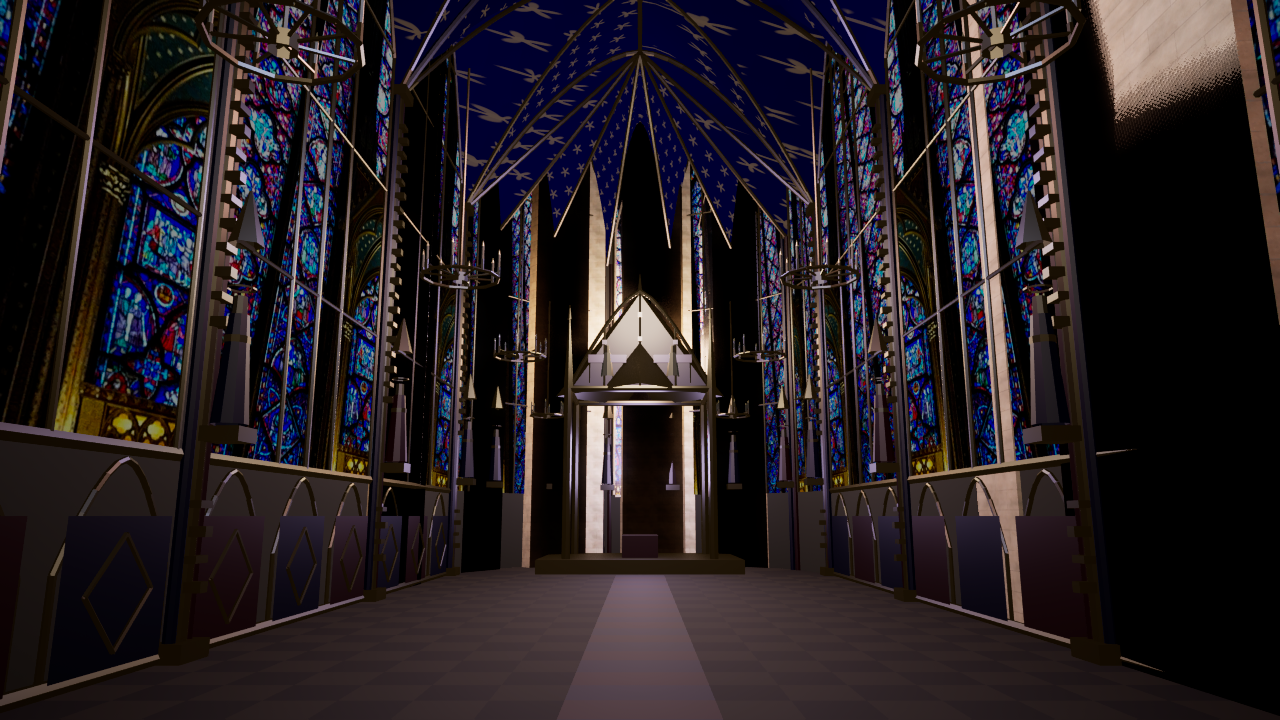
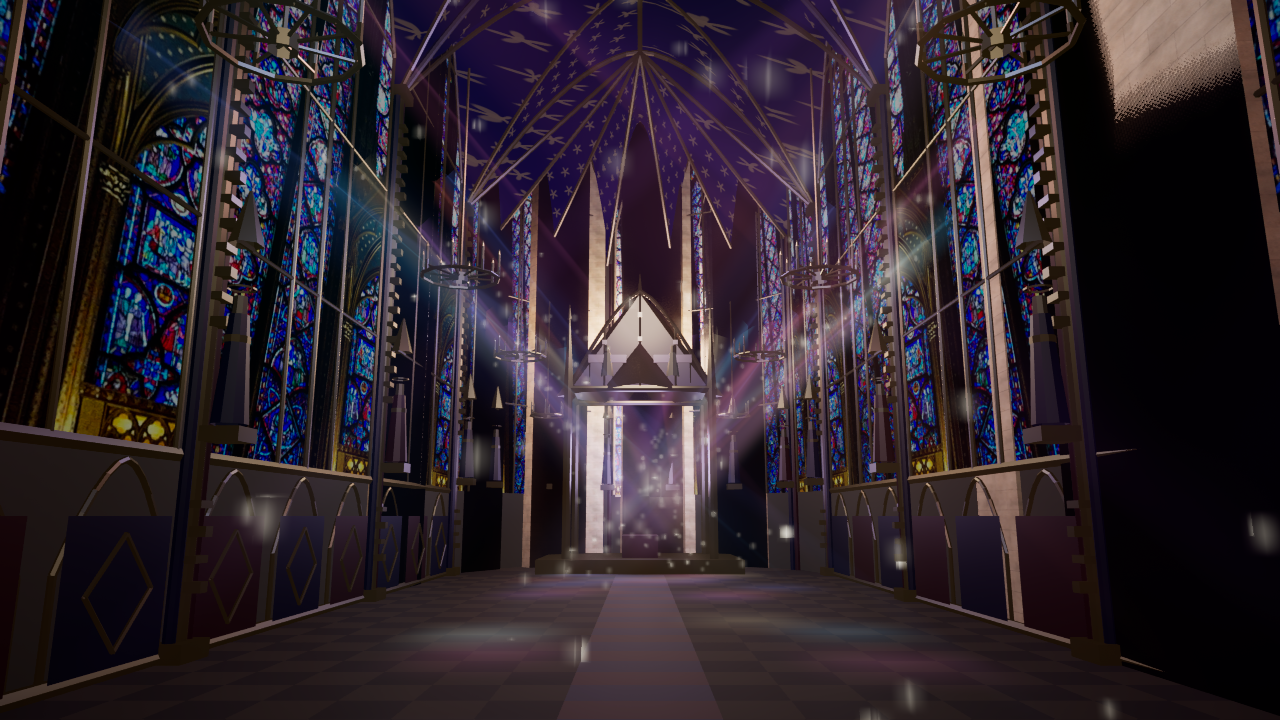
Add chapel entry (Enter), restore environment on exit, coloured light shafts and glitter

diff --git a/unreal/AIWorld/Source/AIWorld/ParisChapelle.cpp b/unreal/AIWorld/Source/AIWorld/ParisChapelle.cpp
@@ -49,7 +49,7 @@ double VaultA(double Y){return InSpring+(InCrown-InSpring)*(1-FMath::Pow(FMath::
 double VaultB(double X,double Cx){return InSpring+(InCrown-InSpring)*(1-FMath::Pow(FMath::Min(FMath::Abs(X-Cx)/(InBayPitch*.5),1.),1.7));}
 double Formeret(double U){return InSpring+(InCrown-InSpring)*(1-FMath::Pow(FMath::Abs(2*U-1),1.7));}
 FVector2D RoseUV(double A){return FVector2D(.53+.12*(.5+.5*FMath::Cos(A)),.29+.20*(.5-.5*FMath::Sin(A)));}
-void BuildInterior(ChapelMesh& S,ChapelMesh& G,ChapelMesh& Vt,int32& Windows){
+void BuildInterior(ChapelMesh& S,ChapelMesh& G,ChapelMesh& Vt,ChapelMesh& Bm,int32& Windows){
     const FLinearColor Stone(.40f,.33f,.22f,.85f),Gold(.60f,.38f,.07f,.38f),Red(.30f,.025f,.025f,.5f),Blue(.015f,.03f,.22f,.5f),Dark(.04f,.025f,.02f,.7f);
     auto ApsePier=[](int32 B){const double A=PI*.5+PI*B/7.;return FVector(InApseX+InApseR*FMath::Cos(A),InApseR*FMath::Sin(A),0);};
     // Floor: alternating tiles, polished stone.
@@ -202,6 +202,44 @@ void BuildInterior(ChapelMesh& S,ChapelMesh& G,ChapelMesh& Vt,int32& Windows){
     S.Col=Gold;for(double Y:{-170.,0.,170.})S.Cone(-1572,Y,InFloor+620,InFloor+700,2,2,4);
     // Kneeling angels beneath the canopy.
     for(double Y:{-110.,110.}){S.Col=Wax;S.Cone(-1560,Y,InFloor+640,InFloor+720,22,12,8);S.Col=Skin;S.Cone(-1560,Y,InFloor+720,InFloor+745,9,8,8);S.Col=Gold;S.Box(FVector(-1560,Y+(Y>0?-30:30),InFloor+700),FVector(6,34,14));S.Box(FVector(-1560,Y+(Y>0?30:-30),InFloor+700),FVector(6,34,14));}
+    // ---- Coloured light shafts pouring through the glass, floor pools and drifting glitter motes (additive, unlit).
+    FRandomStream Rnd(11);
+    const FLinearColor Pal[6]={FLinearColor(.25f,.38f,1.f),FLinearColor(1.f,.28f,.22f),FLinearColor(.70f,.30f,1.f),FLinearColor(1.f,.84f,.52f),FLinearColor(.20f,.72f,1.f),FLinearColor(1.f,.32f,.66f)};
+    TArray<TPair<FVector,FVector>> Shafts;
+    auto Ribbon=[&](FVector A,FVector B,double W0,double W1,FLinearColor Col,float Gain){
+        const FVector D=(B-A).GetSafeNormal();const FVector S1=FVector::CrossProduct(D,FVector::UpVector).GetSafeNormal(),S2=FVector::CrossProduct(D,S1).GetSafeNormal();
+        Bm.Col=FLinearColor(Col.R,Col.G,Col.B,Gain/40.f);
+        for(const FVector& Sd:{S1,S2})Bm.Face({A-Sd*(W0*.5),A+Sd*(W0*.5),B+Sd*(W1*.5),B-Sd*(W1*.5)},FVector(0,0,1),{FVector2D(0,0),FVector2D(0,1),FVector2D(1,1),FVector2D(1,0)});
+        Shafts.Add(TPair<FVector,FVector>(A,B));
+        Bm.Col=FLinearColor(Col.R,Col.G,Col.B,Gain*.9f/40.f);
+        Bm.Face({FVector(B.X-190,B.Y-150,InFloor+2),FVector(B.X+190,B.Y-150,InFloor+2),FVector(B.X+190,B.Y+150,InFloor+2),FVector(B.X-190,B.Y+150,InFloor+2)},FVector(0,0,1),{FVector2D(-1,0),FVector2D(1,0),FVector2D(1,1),FVector2D(-1,1)});
+    };
+    int32 Ci=0;
+    for(int32 Sign:{-1,1})for(int32 Bay=0;Bay<4;Bay++){
+        const double Cx=InPiers[Bay]+InBayPitch*.5;
+        for(double Off:{-140.,0.,140.}){
+            const FVector A(Cx+Off,Sign*(InWallY-8),1450+Rnd.FRandRange(-250.f,350.f));
+            const FVector B(Cx+Off+230+Rnd.FRandRange(-120.f,120.f),Sign*(InWallY-720-Rnd.FRandRange(0.f,260.f)),InFloor+2);
+            Ribbon(A,B,90,230,Pal[(Ci++)%6],30.f);
+        }
+    }
+    for(int32 B=0;B<7;B++){
+        const FVector P0=ApsePier(B),P1=ApsePier(B+1),Mid=(P0+P1)*.5;const FVector Radial=FVector(Mid.X-InApseX,Mid.Y,0).GetSafeNormal(),Tangent(-Radial.Y,Radial.X,0);
+        for(double Off:{-60.,60.}){
+            const FVector A=FVector(Mid.X,Mid.Y,1400)-Radial*8+Tangent*Off;
+            const FVector E=FVector(Mid.X,Mid.Y,InFloor+2)-Radial*(650+Rnd.FRandRange(0.f,260.f))+Tangent*(Off*2.5);
+            Ribbon(A,E,90,220,Pal[(Ci++)%6],30.f);
+        }
+    }
+    for(double Y:{-220.,-70.,80.,230.})Ribbon(FVector(InPiers[4]-8,Y*.6,1650),FVector(InPiers[4]-1000,Y*1.6,InFloor+2),130,300,Pal[(Ci++)%6],24.f);
+    // Glitter motes: tiny crossed quads scattered along the shafts that twinkle in the material.
+    Bm.Col=FLinearColor(1.f,.93f,.78f,1.f);
+    for(int32 K=0;K<420&&Shafts.Num();K++){
+        const auto& Sh=Shafts[Rnd.RandRange(0,Shafts.Num()-1)];const double T=Rnd.FRand();
+        const FVector P=FMath::Lerp(Sh.Key,Sh.Value,T)+FVector(Rnd.FRandRange(-70.f,70.f),Rnd.FRandRange(-70.f,70.f),Rnd.FRandRange(-50.f,50.f));const double Sz=7+Rnd.FRand()*8;
+        Bm.Face({P+FVector(-Sz,0,-Sz),P+FVector(Sz,0,-Sz),P+FVector(Sz,0,Sz),P+FVector(-Sz,0,Sz)},FVector(0,-1,0),{FVector2D(-1,0),FVector2D(1,0),FVector2D(1,1),FVector2D(-1,1)});
+        Bm.Face({P+FVector(0,-Sz,-Sz),P+FVector(0,Sz,-Sz),P+FVector(0,Sz,Sz),P+FVector(0,-Sz,Sz)},FVector(1,0,0),{FVector2D(-1,0),FVector2D(1,0),FVector2D(1,1),FVector2D(-1,1)});
+    }
 }
 }
 AParisChapelleDetail::AParisChapelleDetail(){
@@ -213,6 +251,7 @@ AParisChapelleDetail::AParisChapelleDetail(){
     PrimaryActorTick.bCanEverTick=true;PrimaryActorTick.TickInterval=.2f;
     InnerSolid=CreateDefaultSubobject<UProceduralMeshComponent>(TEXT("ChapelleInnerSolid"));InnerSolid->SetupAttachment(RootComponent);InnerSolid->SetVisibility(false);
     InnerGlass=CreateDefaultSubobject<UProceduralMeshComponent>(TEXT("ChapelleInnerGlass"));InnerGlass->SetupAttachment(RootComponent);InnerGlass->SetCastShadow(false);InnerGlass->SetVisibility(false);
+    InnerBeams=CreateDefaultSubobject<UProceduralMeshComponent>(TEXT("ChapelleInnerBeams"));InnerBeams->SetupAttachment(RootComponent);InnerBeams->SetCastShadow(false);InnerBeams->SetVisibility(false);
     InnerVault=CreateDefaultSubobject<UProceduralMeshComponent>(TEXT("ChapelleInnerVault"));InnerVault->SetupAttachment(RootComponent);InnerVault->SetVisibility(false);
     auto MakeCamera=[this](const TCHAR* Name,FVector From,FVector To,float Fov){auto C=CreateDefaultSubobject<UCameraComponent>(Name);C->SetupAttachment(RootComponent);C->SetRelativeLocation(From);C->SetRelativeRotation((To-From).Rotation());C->FieldOfView=Fov;C->SetAutoActivate(false);return C;};
     WestCamera=MakeCamera(TEXT("ChapelleWestCamera"),FVector(-1250,0,700),FVector(1580,0,1350),76);
@@ -226,22 +265,31 @@ AParisChapelleDetail::AParisChapelleDetail(){
 void AParisChapelleDetail::Tick(float DeltaSeconds){
     Super::Tick(DeltaSeconds);if(!bInteriorBuilt)return;
     // Interior meshes and lights are drawn only while the viewer is inside, so the exterior view pays nothing.
-    auto PC=GetWorld()?GetWorld()->GetFirstPlayerController():nullptr;const bool Inside=PC&&PC->GetViewTarget()==this&&ViewIndex>0;
-    InnerSolid->SetVisibility(Inside);InnerGlass->SetVisibility(Inside);InnerVault->SetVisibility(Inside);for(auto L:InnerLights)L->SetVisibility(Inside);
-    // The scene uses fixed daylight camera exposure (ISO100, 1/125s); the nave is
-    // a candle-and-glass interior, so switch to a dark-adapted exposure while inside.
+    // "Inside" is decided by where the camera actually is, so flying or walking in works as well as the fixed views.
+    auto PC=GetWorld()?GetWorld()->GetFirstPlayerController():nullptr;bool Inside=false;
+    if(PC&&PC->PlayerCameraManager){const FVector L=GetActorTransform().InverseTransformPosition(PC->PlayerCameraManager->GetCameraLocation());Inside=L.X>-2200&&L.X<1700&&FMath::Abs(L.Y)<660&&L.Z>InFloor-40&&L.Z<InCrown;}
+    SetActorTickInterval(Inside?0.f:.2f);
+    InnerSolid->SetVisibility(Inside);InnerGlass->SetVisibility(Inside);InnerVault->SetVisibility(Inside);InnerBeams->SetVisibility(Inside);for(auto L:InnerLights)L->SetVisibility(Inside);
+    // Keep a free-flying camera within the nave (there is no collision on the procedural shell).
+    if(Inside&&PC){if(auto Cam=Cast<AParisTwinCamera>(PC->GetPawn()))if(Cam->bEye&&PC->GetViewTarget()==Cam){
+        FVector L=GetActorTransform().InverseTransformPosition(Cam->Target);L.X=FMath::Clamp(L.X,-2000.,1560.);L.Y=FMath::Clamp(L.Y,-540.,540.);L.Z=FMath::Clamp(L.Z,InFloor+60.,InCrown-200.);Cam->Target=GetActorTransform().TransformPosition(L);}}
     if(Inside!=bWasInside){
         bWasInside=Inside;
-        for(TActorIterator<APostProcessVolume> It(GetWorld());It;++It)if(It->ActorHasTag(TEXT("ParisPhotoEnvironment"))){
-            auto& P=It->Settings;
-            if(Inside){if(!bSavedExposure){SavedISO=P.CameraISO;SavedShutter=P.CameraShutterSpeed;bSavedExposure=true;}P.bOverride_CameraISO=true;P.CameraISO=400.f;P.bOverride_CameraShutterSpeed=true;P.CameraShutterSpeed=30.f;}
-            else if(bSavedExposure){P.CameraISO=SavedISO;P.CameraShutterSpeed=SavedShutter;bSavedExposure=false;}
-        }
-        // Outdoor sun, sky and haze would leak through the shell mesh and wash out the nave.
-        for(TActorIterator<ASkyLight> It(GetWorld());It;++It)if(It->ActorHasTag(TEXT("ParisPhotoEnvironment")))It->GetLightComponent()->SetVisibility(!Inside);
-        for(TActorIterator<ADirectionalLight> It(GetWorld());It;++It)if(It->ActorHasTag(TEXT("ParisPhotoEnvironment")))It->GetLightComponent()->SetVisibility(!Inside);
-        for(TActorIterator<AExponentialHeightFog> It(GetWorld());It;++It)if(It->ActorHasTag(TEXT("ParisPhotoEnvironment")))It->GetComponent()->SetVisibility(!Inside);
+        if(Inside){
+            // The scene uses fixed daylight camera exposure; the nave is a candle-and-glass interior, so use a
+            // dark-adapted exposure and silence the outdoor sun, sky and haze (they would leak through the shell mesh).
+            for(TActorIterator<APostProcessVolume> It(GetWorld());It;++It)if(It->ActorHasTag(TEXT("ParisPhotoEnvironment"))){auto& P=It->Settings;P.bOverride_CameraISO=true;P.CameraISO=400.f;P.bOverride_CameraShutterSpeed=true;P.CameraShutterSpeed=30.f;P.bOverride_AutoExposureBias=true;P.AutoExposureBias=0.f;P.bOverride_BloomIntensity=true;P.BloomIntensity=1.6f;P.bOverride_BloomThreshold=true;P.BloomThreshold=.7f;}
+            for(TActorIterator<ASkyLight> It(GetWorld());It;++It)if(It->ActorHasTag(TEXT("ParisPhotoEnvironment")))It->GetLightComponent()->SetIntensity(0.f);
+            for(TActorIterator<ADirectionalLight> It(GetWorld());It;++It)if(It->ActorHasTag(TEXT("ParisPhotoEnvironment")))It->GetLightComponent()->SetIntensity(0.f);
+            for(TActorIterator<AExponentialHeightFog> It(GetWorld());It;++It)if(It->ActorHasTag(TEXT("ParisPhotoEnvironment")))It->GetComponent()->SetFogDensity(0.f);
+        }else if(Scene)Scene->ApplyEnvironmentPreset(); // rebuilds sun, sky, fog and exposure for the current time of day
     }
+}
+void AParisChapelleDetail::ToggleInterior(AParisTwinController* PC){
+    if(!PC||!bInteriorBuilt)return;
+    if(bWasInside){ActivateView(PC,0);return;}
+    PC->ReturnToFree();auto Cam=Cast<AParisTwinCamera>(PC->GetPawn());if(!Cam)return;
+    Cam->bEye=true;Cam->Target=GetActorTransform().TransformPosition(FVector(1350,0,InFloor+170));Cam->Yaw=GetActorRotation().Yaw+180.;Cam->Pitch=4;PC->SetViewTarget(Cam);
 }
 bool AParisChapelleDetail::Initialize(AParisTwinScene* InScene){
     Scene=InScene;if(!Scene)return false;auto Feature=Scene->SourceFeatureByID(TEXT("osm/relation/3344870"));if(!Feature)return false;
@@ -315,7 +363,8 @@ bool AParisChapelleDetail::Initialize(AParisTwinScene* InScene){
         auto InMat=LoadObject<UMaterialInterface>(nullptr,TEXT("/Game/ParisPhotoreal/SainteChapelle/M_SainteChapelleInterior.M_SainteChapelleInterior"));
         auto InGlass=LoadObject<UMaterialInterface>(nullptr,TEXT("/Game/ParisPhotoreal/SainteChapelle/M_SainteChapelleInnerGlass.M_SainteChapelleInnerGlass"));
         auto InVault=LoadObject<UMaterialInterface>(nullptr,TEXT("/Game/ParisPhotoreal/SainteChapelle/M_SainteChapelleVault.M_SainteChapelleVault"));
-        if(InMat&&InGlass&&InVault){ChapelMesh IS,IG,IV;int32 InnerWindows=0;BuildInterior(IS,IG,IV,InnerWindows);IS.Apply(InnerSolid,InMat);IG.Apply(InnerGlass,InGlass);IV.Apply(InnerVault,InVault);bInteriorBuilt=true;UE_LOG(LogTemp,Display,TEXT("PARIS_CHAPELLE_INTERIOR_READY windows=%d solid_tris=%d vault_tris=%d"),InnerWindows,IS.I.Num()/3,IV.I.Num()/3);}
+        UMaterialInterface* InBeam=LoadObject<UMaterialInterface>(nullptr,TEXT("/Game/ParisPhotoreal/SainteChapelle/M_SainteChapelleBeam.M_SainteChapelleBeam"));
+        if(InMat&&InGlass&&InVault){ChapelMesh IS,IG,IV,IB;int32 InnerWindows=0;BuildInterior(IS,IG,IV,IB,InnerWindows);if(InBeam)IB.Apply(InnerBeams,InBeam);IS.Apply(InnerSolid,InMat);IG.Apply(InnerGlass,InGlass);IV.Apply(InnerVault,InVault);bInteriorBuilt=true;UE_LOG(LogTemp,Display,TEXT("PARIS_CHAPELLE_INTERIOR_READY windows=%d solid_tris=%d vault_tris=%d beam_tris=%d beam_material=%d"),InnerWindows,IS.I.Num()/3,IV.I.Num()/3,IB.I.Num()/3,InBeam?1:0);}
         else UE_LOG(LogTemp,Warning,TEXT("PARIS_CHAPELLE_INTERIOR_MATERIALS_MISSING run Build-ParisChapelle.ps1"));
     }
     bReady=true;Sync();return true;

diff --git a/unreal/scripts/bake-paris-chapelle-interior.py b/unreal/scripts/bake-paris-chapelle-interior.py
@@ -2,7 +2,7 @@
 import unreal
 a=unreal.EditorAssetLibrary;t=unreal.AssetToolsHelpers.get_asset_tools();l=unreal.MaterialEditingLibrary
 base='/Game/ParisPhotoreal/SainteChapelle'
-RECIPE='sainte_chapelle_interior_v9'
+RECIPE='sainte_chapelle_interior_v13'
 
 def fresh(name):
     pkg=base+'/'+name
@@ -36,7 +36,7 @@ if m:
     l.connect_material_property(vc,'RGB',unreal.MaterialProperty.MP_BASE_COLOR)
     rough=custom(m,'return max(A,.25);',{'A':(vc,'A')},unreal.CustomMaterialOutputType.CMOT_FLOAT1)
     l.connect_material_property(rough,'',unreal.MaterialProperty.MP_ROUGHNESS)
-    glow=custom(m,'return A<.03?V*45.:V*16.;',{'V':(vc,''),'A':(vc,'A')})
+    glow=custom(m,'return A<.03?V*45.:V*26.;',{'V':(vc,''),'A':(vc,'A')})
     l.connect_material_property(glow,'',unreal.MaterialProperty.MP_EMISSIVE_COLOR)
     finish(m,'interior')
 
@@ -47,7 +47,7 @@ if m:
     if not tex:raise RuntimeError('Run Build-ParisChapelle.ps1 first: window photo missing')
     m.set_editor_properties(dict(two_sided=True,shading_model=unreal.MaterialShadingModel.MSM_UNLIT,blend_mode=unreal.BlendMode.BLEND_OPAQUE))
     s=l.create_material_expression(m,unreal.MaterialExpressionTextureSample);s.set_editor_property('texture',tex)
-    gain=l.create_material_expression(m,unreal.MaterialExpressionScalarParameter);gain.set_editor_properties(dict(parameter_name='GlassGain',default_value=110.))
+    gain=l.create_material_expression(m,unreal.MaterialExpressionScalarParameter);gain.set_editor_properties(dict(parameter_name='GlassGain',default_value=150.))
     glow=custom(m,'float3 c=pow(saturate(C),1.25);float lum=dot(c,float3(.3,.59,.11));c=lerp(lum.xxx,c,1.45);return c*G;',{'C':(s,'RGB'),'G':(gain,'')})
     l.connect_material_property(glow,'',unreal.MaterialProperty.MP_EMISSIVE_COLOR)
     finish(m,'glass')
@@ -67,4 +67,21 @@ float3 blue=float3(.010,.022,.20)*shade;float3 gold=float3(.78,.52,.10);'''
     em=custom(m,code+'return gold*mark*56.+blue*120.;',{'P':(wp,'')})
     l.connect_material_property(em,'',unreal.MaterialProperty.MP_EMISSIVE_COLOR)
     finish(m,'vault')
+# 4. Light shafts, floor pools and glitter motes: additive, unlit; vertex RGB = colour, vertex A = gain,
+#    UV.x = along the shaft (or -1..1 across a pool/mote), UV.y = across.
+m=fresh('M_SainteChapelleBeam')
+if m:
+    m.set_editor_properties(dict(two_sided=True,shading_model=unreal.MaterialShadingModel.MSM_UNLIT,blend_mode=unreal.BlendMode.BLEND_ADDITIVE))
+    vc=l.create_material_expression(m,unreal.MaterialExpressionVertexColor)
+    tc=l.create_material_expression(m,unreal.MaterialExpressionTextureCoordinate)
+    wp=l.create_material_expression(m,unreal.MaterialExpressionWorldPosition)
+    tm=l.create_material_expression(m,unreal.MaterialExpressionTime)
+    code='''float f=pow(saturate(1.-abs(UV.x)),1.3);float e=pow(saturate(sin(3.14159*saturate(UV.y))),1.5);
+float n=frac(sin(dot(floor(P*.05),float3(12.9898,78.233,37.719)))*43758.5453);
+float tw=pow(saturate(sin(T*2.5+n*40.)),10.)*step(.55,n)*step(.9,A);
+float3 d=float3(.55,.5,.4)*f*e*.15;
+return V*A*40.*f*e*(1.+tw*9.)+d*A*.8;'''
+    glow=custom(m,code,{'V':(vc,''),'A':(vc,'A'),'UV':(tc,''),'P':(wp,''),'T':(tm,'')})
+    l.connect_material_property(glow,'',unreal.MaterialProperty.MP_EMISSIVE_COLOR)
+    finish(m,'beam')
 unreal.log_warning('PARIS_CHAPELLE_INTERIOR_MATERIALS_READY')

diff --git a/unreal/AIWorld/Source/AIWorld/ParisDigitalTwin.cpp b/unreal/AIWorld/Source/AIWorld/ParisDigitalTwin.cpp
@@ -169,6 +169,7 @@ void AParisTwinController::SetupInputComponent() {
     {FInputKeyBinding Binding(FInputChord(EKeys::O),IE_Pressed);Binding.KeyDelegate.GetDelegateForManualSet().BindWeakLambda(this,[this](){for(TActorIterator<AParisPalaisDetail> It(GetWorld());It;++It){if(GetViewTarget()==*It)ReturnToFree();else It->ActivateView(this);break;}});InputComponent->KeyBindings.Add(Binding);}
     {FInputKeyBinding Binding(FInputChord(EKeys::J),IE_Pressed);Binding.KeyDelegate.GetDelegateForManualSet().BindWeakLambda(this,[this](){for(TActorIterator<AParisChapelleDetail> It(GetWorld());It;++It){if(GetViewTarget()==*It){if(!It->CycleView(this))ReturnToFree();}else It->ActivateView(this,0);break;}});InputComponent->KeyBindings.Add(Binding);}
     for(const auto Key:{EKeys::K,EKeys::L}){FInputKeyBinding Binding(FInputChord(Key),IE_Pressed);Binding.KeyDelegate.GetDelegateForManualSet().BindWeakLambda(this,[this,Key](){for(TActorIterator<AParisMetro> It(GetWorld());It;++It){if(Key==EKeys::K)It->EnterExit(this);else It->BoardExit(this);break;}});InputComponent->KeyBindings.Add(Binding);}
+    {FInputKeyBinding Binding(FInputChord(EKeys::Enter),IE_Pressed);Binding.KeyDelegate.GetDelegateForManualSet().BindWeakLambda(this,[this](){for(TActorIterator<AParisChapelleDetail> It(GetWorld());It;++It){It->ToggleInterior(this);break;}});InputComponent->KeyBindings.Add(Binding);}
     {FInputKeyBinding Binding(FInputChord(EKeys::U),IE_Pressed);Binding.KeyDelegate.GetDelegateForManualSet().BindWeakLambda(this,[this](){for(TActorIterator<AParisCruise> It(GetWorld());It;++It){if(GetViewTarget()==*It)ReturnToFree();else It->ActivateView(this);break;}});InputComponent->KeyBindings.Add(Binding);}
     InputComponent->BindKey(EKeys::H,IE_Pressed,this,&AParisTwinController::ToggleHelp);
     InputComponent->BindKey(EKeys::F10,IE_Pressed,this,&AParisTwinController::ToggleHUD);
@@ -746,7 +747,7 @@ void AParisTwinHUD::DrawHUD() {
         TEXT("移動 WASD:カメラ移動/歩行 | F3:地上目線の自由カメラ | F8:主人公で探索 | Shift:走る"),
         TEXT("視点 V:一人称/三人称を切替 | 矢印キー:自由カメラの向き | F2:全景へ戻る"),
         TEXT("表示 F1:再現レベル | F4:問題 | F5:輪郭 | F6:小物 | F7:画質 | M:表面 | 7:地区巡回 | 9:派手モード"),
-        TEXT("ランドマーク 1:ノートルダム | 2:サント・シャペル | 3:サン・ミシェル | J:シャペル視点 | O:旧司法宮視点"),
+        TEXT("ランドマーク 1:ノートルダム | 2:サント・シャペル | 3:サン・ミシェル | J:シャペル視点 | Enter:シャペルに入る/出る | O:旧司法宮視点"),
         TEXT("街 P:歩行者 | T:車 | C:車を確認 | B:カフェ | I:スーパー | Y:レストラン | Z:花屋 | X:パン屋 | Q:本屋"),
         TEXT("乗り物 U:クルーズ船を追従 | K:最寄り駅で乗降/地上へ | L:列車に乗る/停車後に降りる"),
         TEXT("環境 G:昼→夕→夜 | R:雨/晴れ | F11:環境音ON/OFF | F12:音を試聴 | N:歩行者ルート | 4/5/6:写真視点 | F9:画面保存"),

diff --git a/unreal/AIWorld/Source/AIWorld/ParisChapelleTests.cpp b/unreal/AIWorld/Source/AIWorld/ParisChapelleTests.cpp
@@ -16,7 +16,7 @@ bool FParisChapelleWait::Update(){
         if(!Detail||!Detail->bReady){Test->AddError(TEXT("Chapel detail or source material missing"));Started=0;return true;}
         Test->TestEqual(TEXT("Fifteen inferred nave and apse bays"),Detail->WindowCount,15);Test->TestEqual(TEXT("Eighteen exterior buttresses"),Detail->ButtressCount,18);Test->TestEqual(TEXT("Official spire height in centimeters"),Detail->SpireHeightCm,7500.);
         Test->TestTrue(TEXT("Source footprint retained"),Scene->SourceFeatureByID(TEXT("osm/relation/3344870")).IsValid());
-        TArray<UProceduralMeshComponent*> Parts;Detail->GetComponents(Parts);Test->TestEqual(TEXT("Exterior and interior stone, glass, slate and vault parts present"),Parts.Num(),6);Test->TestTrue(TEXT("Upper-chapel interior was built from baked materials"),Detail->bInteriorBuilt);
+        TArray<UProceduralMeshComponent*> Parts;Detail->GetComponents(Parts);Test->TestEqual(TEXT("Exterior and interior stone, glass, slate, vault and light-shaft parts present"),Parts.Num(),7);Test->TestTrue(TEXT("Upper-chapel interior was built from baked materials"),Detail->bInteriorBuilt);
         for(auto P:Parts){Test->TestTrue(TEXT("Detail does not replace GIS collision"),P->GetCollisionEnabled()==ECollisionEnabled::NoCollision);Test->TestNotNull(TEXT("Detail material exists"),P->GetMaterial(0));}
         const int32 Old=Scene->DetailQuality;Scene->DetailQuality=0;Detail->Sync();Test->TestTrue(TEXT("Low mode restores original geometry"),Detail->IsHidden());Scene->DetailQuality=Old;Detail->Sync();
         if(auto PC=Cast<AParisTwinController>(World->GetFirstPlayerController())){PC->Overview();Detail->ActivateView(PC);Test->TestTrue(TEXT("Chapel view activates"),PC->GetViewTarget()==Detail);Test->TestTrue(TEXT("Cycling reaches the interior"),Detail->CycleView(PC)&&Detail->ViewIndex==1);Detail->ActivateView(PC,3);Test->TestEqual(TEXT("Interior window view selected"),Detail->ViewIndex,3);Test->TestFalse(TEXT("Cycling ends at the last interior view"),Detail->CycleView(PC));PC->Overview();}

diff --git a/unreal/AIWorld/Source/AIWorld/ParisChapelle.h b/unreal/AIWorld/Source/AIWorld/ParisChapelle.h
@@ -4,6 +4,7 @@
 #include "ParisChapelle.generated.h"
 class AParisTwinScene;
 class APlayerController;
+class AParisTwinController;
 class UCameraComponent;
 class UPointLightComponent;
 class UProceduralMeshComponent;
@@ -16,6 +17,7 @@ public:
     void Sync();
     void ActivateView(APlayerController* PC,int32 Index=0);
     bool CycleView(APlayerController* PC);
+    void ToggleInterior(AParisTwinController* PC);
     virtual void Tick(float DeltaSeconds) override;
     int32 ViewIndex=0;bool bInteriorBuilt=false;bool bWasInside=false;bool bSavedExposure=false;float SavedISO=100,SavedShutter=125;
     bool bReady=false;
@@ -33,5 +35,6 @@ private:
     UPROPERTY() TObjectPtr<UProceduralMeshComponent> InnerSolid;
     UPROPERTY() TObjectPtr<UProceduralMeshComponent> InnerGlass;
     UPROPERTY() TObjectPtr<UProceduralMeshComponent> InnerVault;
+    UPROPERTY() TObjectPtr<UProceduralMeshComponent> InnerBeams;
     UPROPERTY() TArray<TObjectPtr<UPointLightComponent>> InnerLights;
 };

diff --git a/unreal/AIWorld/Source/AIWorld/ParisDigitalTwin.h b/unreal/AIWorld/Source/AIWorld/ParisDigitalTwin.h
@@ -127,7 +127,8 @@ private:
     TArray<TSharedPtr<FJsonObject>> SourceFeatures,Landmarks,Issues;
     TSet<FString> OverlapIDs;
     UPROPERTY() TObjectPtr<UProceduralMeshComponent> FootprintMesh;
-    void ApplyEnvironmentPreset();
+public: void ApplyEnvironmentPreset();
+private:
     void RefreshAppearance();
     UMaterialInterface* SurfaceMaterialFor(const TSharedPtr<FJsonObject>& Feature) const;
     double ReadyAt=0;
